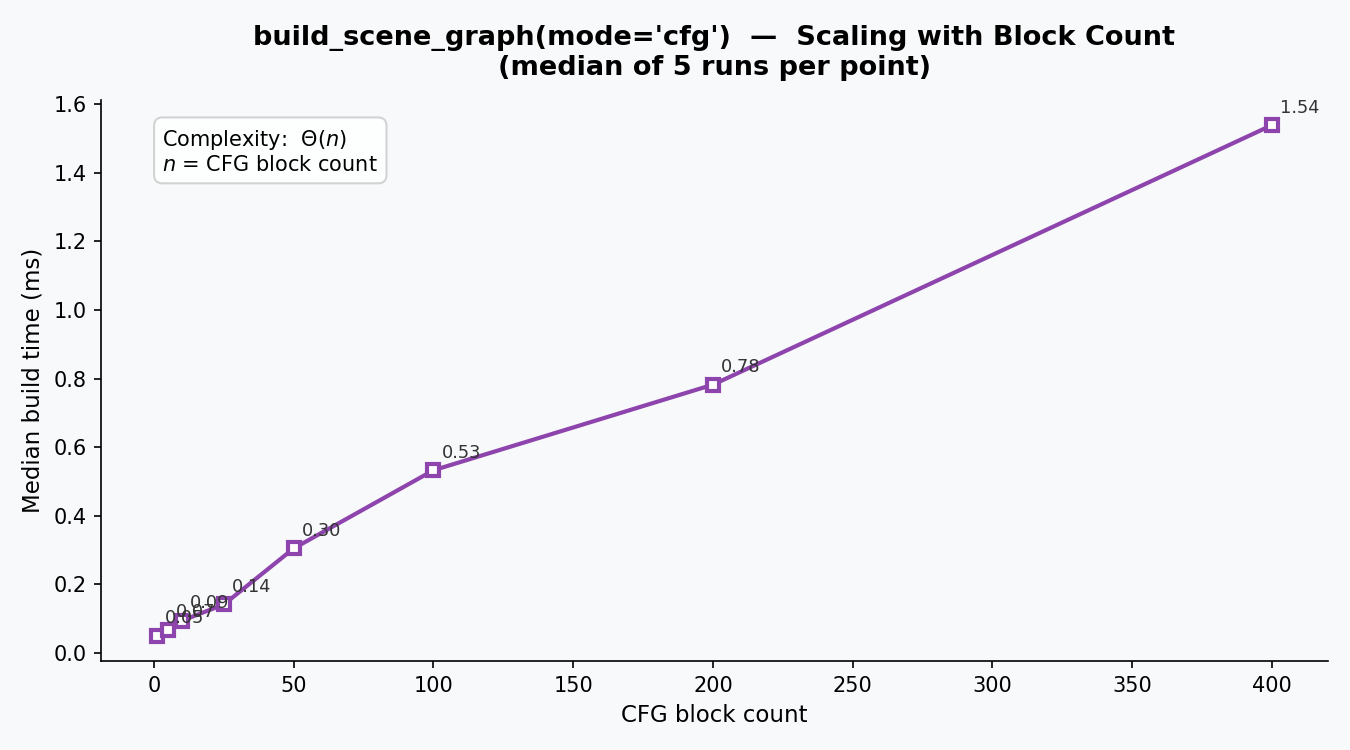
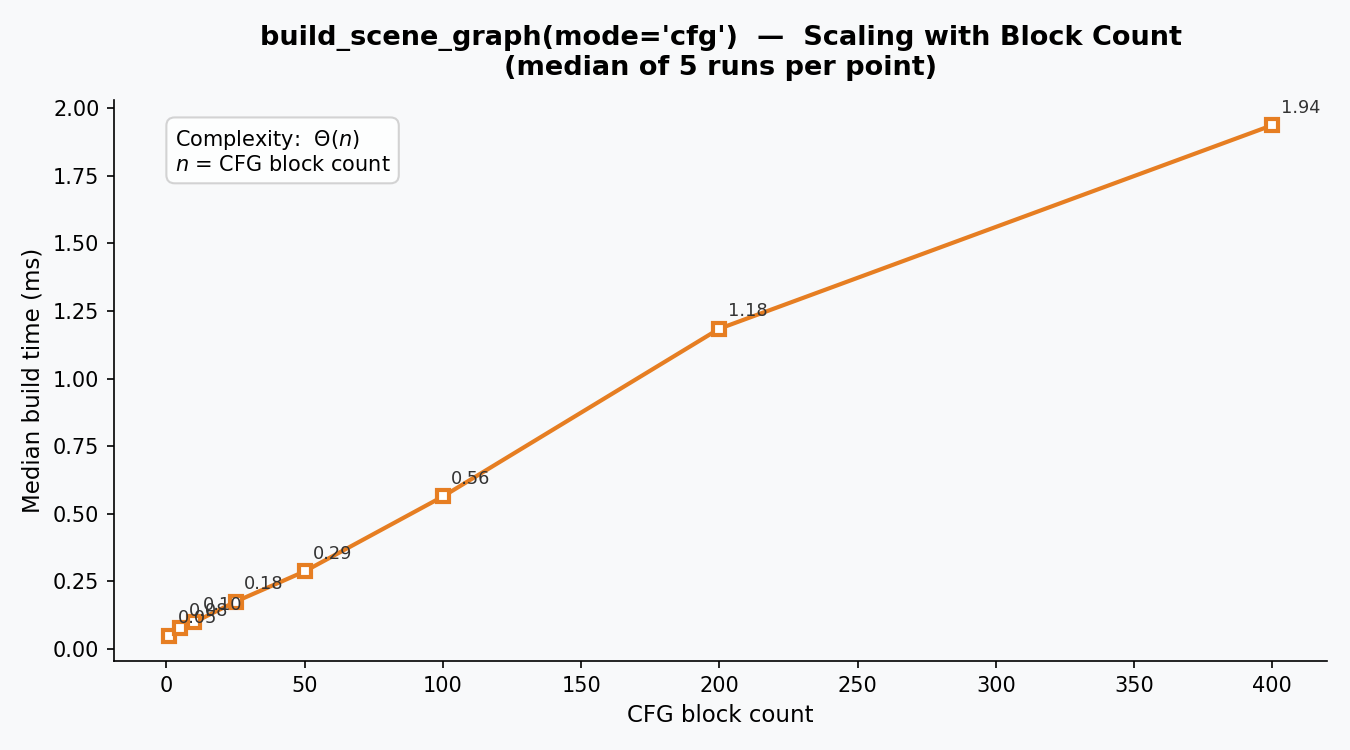
Updated images, fixed tests failing from tools.shutil->tools.ffmpeg switch

diff --git a/tests/cli/test_main.py b/tests/cli/test_main.py
@@ -75,7 +75,9 @@ def test_name_flag_overrides_output_basenames(tmp_path) -> None:
         }
     """)
     outdir = tmp_path / "out"
-    code = main(argv=[str(ll_file), "--json", "--draw", "--outdir", str(outdir), "--name", "myproject"])
+    code = main(
+        argv=[str(ll_file), "--json", "--draw", "--outdir", str(outdir), "--name", "myproject"]
+    )
     assert code == 0
     assert (outdir / "myproject_scene_graph.json").exists()
     assert (outdir / "cfg_myproject.dot").exists()
@@ -183,8 +185,10 @@ def test_main_animate_sets_manim_media_dir(tmp_path) -> None:
         }
     """)
     outdir = tmp_path / "out"
-    with patch("llvmanim.cli.main.StackRenderer"), \
-         patch("llvmanim.cli.main.manim_config") as mock_cfg:
+    with (
+        patch("llvmanim.cli.main.StackRenderer"),
+        patch("llvmanim.cli.main.manim_config") as mock_cfg,
+    ):
         main(argv=[str(ll_file), "--animate", "--outdir", str(outdir)])
     assert mock_cfg.media_dir == str(outdir)
 
@@ -295,9 +299,11 @@ def test_main_gif_renders_manim_as_mp4(tmp_path) -> None:
             ret i32 0
         }
     """)
-    with patch("llvmanim.cli.main.StackRenderer"), \
-         patch("llvmanim.cli.main.manim_config") as mock_cfg, \
-         patch("llvmanim.cli.main._find_latest_file", return_value=None):
+    with (
+        patch("llvmanim.cli.main.StackRenderer"),
+        patch("llvmanim.cli.main.manim_config") as mock_cfg,
+        patch("llvmanim.cli.main._find_latest_file", return_value=None),
+    ):
         code = main(argv=[str(ll_file), "--animate", "--format", "gif"])
 
     assert code == 0
@@ -317,10 +323,23 @@ def test_main_gif_calls_conversion_when_mp4_found(tmp_path) -> None:
     """)
     fake_mp4 = tmp_path / "media" / "videos" / "scene.mp4"
 
-    with patch("llvmanim.cli.main.StackRenderer"), \
-         patch("llvmanim.cli.main._find_latest_file", return_value=fake_mp4), \
-         patch("llvmanim.cli.main._convert_mp4_to_gif", return_value=True) as mock_convert:
-        code = main(argv=[str(ll_file), "--animate", "--format", "gif", "--gif-fps", "10", "--gif-width", "720"])
+    with (
+        patch("llvmanim.cli.main.StackRenderer"),
+        patch("llvmanim.cli.main._find_latest_file", return_value=fake_mp4),
+        patch("llvmanim.cli.main._convert_mp4_to_gif", return_value=True) as mock_convert,
+    ):
+        code = main(
+            argv=[
+                str(ll_file),
+                "--animate",
+                "--format",
+                "gif",
+                "--gif-fps",
+                "10",
+                "--gif-width",
+                "720",
+            ]
+        )
 
     assert code == 0
     mock_convert.assert_called_once_with(
@@ -439,7 +458,7 @@ def test_convert_mp4_to_gif_returns_false_without_ffmpeg(tmp_path, capsys) -> No
 
     from llvmanim.cli.main import _convert_mp4_to_gif
 
-    with patch("llvmanim.cli.main.shutil.which", return_value=None):
+    with patch("llvmanim.util.tools.ffmpeg", return_value=None):
         ok = _convert_mp4_to_gif(
             tmp_path / "in.mp4",
             tmp_path / "out.gif",
@@ -457,8 +476,13 @@ def test_convert_mp4_to_gif_returns_false_on_ffmpeg_error(tmp_path, capsys) -> N
 
     from llvmanim.cli.main import _convert_mp4_to_gif
 
-    with patch("llvmanim.cli.main.shutil.which", return_value="/usr/bin/ffmpeg"), \
-         patch("llvmanim.cli.main.subprocess.run", side_effect=subprocess.CalledProcessError(2, ["ffmpeg"])):
+    with (
+        patch("llvmanim.util.tools.ffmpeg", return_value="/usr/bin/ffmpeg"),
+        patch(
+            "llvmanim.cli.main.subprocess.run",
+            side_effect=subprocess.CalledProcessError(2, ["ffmpeg"]),
+        ),
+    ):
         ok = _convert_mp4_to_gif(
             tmp_path / "in.mp4",
             tmp_path / "out.gif",
@@ -476,8 +500,10 @@ def test_convert_mp4_to_gif_returns_true_when_commands_succeed(tmp_path) -> None
 
     from llvmanim.cli.main import _convert_mp4_to_gif
 
-    with patch("llvmanim.cli.main.shutil.which", return_value="/usr/bin/ffmpeg"), \
-         patch("llvmanim.cli.main.subprocess.run") as mock_run:
+    with (
+        patch("llvmanim.util.tools.ffmpeg", return_value="/usr/bin/ffmpeg"),
+        patch("llvmanim.cli.main.subprocess.run") as mock_run,
+    ):
         ok = _convert_mp4_to_gif(
             tmp_path / "in.mp4",
             tmp_path / "out.gif",
@@ -547,7 +573,16 @@ def test_import_analysis_metadata_applies_to_graph(tmp_path, capsys) -> None:
     meta_path = tmp_path / "meta.json"
     meta_path.write_text(json.dumps(meta))
 
-    code = main(argv=[str(ll_file), "--json", "--outdir", str(tmp_path), "--import-analysis-metadata", str(meta_path)])
+    code = main(
+        argv=[
+            str(ll_file),
+            "--json",
+            "--outdir",
+            str(tmp_path),
+            "--import-analysis-metadata",
+            str(meta_path),
+        ]
+    )
     assert code == 0
 
     scene = json.loads((tmp_path / "test_scene_graph.json").read_text())
@@ -633,7 +668,9 @@ def test_import_trace_populates_overlay(tmp_path, capsys) -> None:
     _write_trace_json(trace_file)
 
     outdir = tmp_path / "out"
-    code = main(argv=[str(ll_file), "--import-trace", str(trace_file), "--draw", "--outdir", str(outdir)])
+    code = main(
+        argv=[str(ll_file), "--import-trace", str(trace_file), "--draw", "--outdir", str(outdir)]
+    )
     assert code == 0
 
     # DOT output should contain overlay styling
@@ -649,11 +686,15 @@ def test_export_trace_writes_file(tmp_path, capsys) -> None:
     _write_trace_json(trace_in)
     trace_out = tmp_path / "trace_out.json"
 
-    code = main(argv=[
-        str(ll_file),
-        "--import-trace", str(trace_in),
-        "--export-trace", str(trace_out),
-    ])
+    code = main(
+        argv=[
+            str(ll_file),
+            "--import-trace",
+            str(trace_in),
+            "--export-trace",
+            str(trace_out),
+        ]
+    )
     assert code == 0
     assert trace_out.exists()
 
@@ -710,9 +751,15 @@ def test_cfg_animate_auto_derives_trace(tmp_path, capsys) -> None:
     dot_file.write_text("digraph { a -> b }")
     # --yes skips the prompt; the DOT will fail at layout parse, but the
     # auto-derive message should appear in stdout first.
-    main(argv=[
-        str(ll_file), "--cfg-animate", "--dot-cfg", str(dot_file), "--yes",
-    ])
+    main(
+        argv=[
+            str(ll_file),
+            "--cfg-animate",
+            "--dot-cfg",
+            str(dot_file),
+            "--yes",
+        ]
+    )
     out = capsys.readouterr().out
     assert "Deriving a static trace for @main" in out
 
@@ -723,11 +770,16 @@ def test_cfg_animate_dot_file_not_found(tmp_path, capsys) -> None:
     ll_file.write_text(_LOOP_IR)
     trace_file = tmp_path / "trace.json"
     _write_trace_json(trace_file)
-    code = main(argv=[
-        str(ll_file), "--cfg-animate",
-        "--dot-cfg", str(tmp_path / "nope.dot"),
-        "--import-trace", str(trace_file),
-    ])
+    code = main(
+        argv=[
+            str(ll_file),
+            "--cfg-animate",
+            "--dot-cfg",
+            str(tmp_path / "nope.dot"),
+            "--import-trace",
+            str(trace_file),
+        ]
+    )
     assert code == 1
     assert "not found" in capsys.readouterr().out.lower()
 
@@ -746,11 +798,16 @@ def test_cfg_animate_dot_layout_error(tmp_path, capsys) -> None:
     _write_trace_json(trace_file)
 
     with patch("llvmanim.cli.main.compute_dot_layout", side_effect=DotLayoutError("test error")):
-        code = main(argv=[
-            str(ll_file), "--cfg-animate",
-            "--dot-cfg", str(dot_file),
-            "--import-trace", str(trace_file),
-        ])
+        code = main(
+            argv=[
+                str(ll_file),
+                "--cfg-animate",
+                "--dot-cfg",
+                str(dot_file),
+                "--import-trace",
+                str(trace_file),
+            ]
+        )
     assert code == 1
     assert "test error" in capsys.readouterr().out
 
@@ -778,15 +835,23 @@ def test_cfg_animate_renders_scene(tmp_path, capsys) -> None:
         bounding_box=(0, 0, 200, 300),
     )
 
-    with patch("llvmanim.cli.main.compute_dot_layout", return_value=mock_layout), \
-         patch("llvmanim.cli.main.CFGRenderer") as mock_scene_cls:
+    with (
+        patch("llvmanim.cli.main.compute_dot_layout", return_value=mock_layout),
+        patch("llvmanim.cli.main.CFGRenderer") as mock_scene_cls,
+    ):
         mock_instance = mock_scene_cls.return_value
-        code = main(argv=[
-            str(ll_file), "--cfg-animate",
-            "--dot-cfg", str(dot_file),
-            "--import-trace", str(trace_file),
-            "--outdir", str(tmp_path / "out"),
-        ])
+        code = main(
+            argv=[
+                str(ll_file),
+                "--cfg-animate",
+                "--dot-cfg",
+                str(dot_file),
+                "--import-trace",
+                str(trace_file),
+                "--outdir",
+                str(tmp_path / "out"),
+            ]
+        )
     assert code == 0
     mock_scene_cls.assert_called_once()
     mock_instance.render.assert_called_once()

diff --git a/docs/metrics/generate_perf_metrics.py b/docs/metrics/generate_perf_metrics.py
@@ -24,10 +24,10 @@ OUT = Path(__file__).parent
 BG = "#f8f9fa"
 
 # ── Colour palette ─────────────────────────────────────────────────────────────
-C_INGEST = "#2980b9"
-C_TRANSFORM = "#8e44ad"
-C_TRACE = "#e67e22"
-C_STACK = "#27ae60"
+C_INGEST = "#27AE60"
+C_TRANSFORM = "#E67E22"
+C_TRACE = "#E67E22"       # derive_cfg_trace is also in the transform layer
+C_STACK = "#CA6F1E"       # darker transform amber — pairs with C_TRANSFORM on the memory chart
 C_MEMORY = "#c0392b"
 
 REPEATS = 5  # median over N runs
@@ -337,8 +337,10 @@ def chart_trace_scaling() -> None:
     ax.text(
         0.05,
         0.95,
-        r"Complexity:  $\Theta(n)$  (linear chain CFG)" "\n"
-        r"$O(n \cdot k)$ in general,  $k$ = loop-iteration bound" "\n"
+        r"Complexity:  $\Theta(n)$  (linear chain CFG)"
+        "\n"
+        r"$O(n \cdot k)$ in general,  $k$ = loop-iteration bound"
+        "\n"
         r"$n$ = CFG block count",
         transform=ax.transAxes,
         fontsize=10,
@@ -408,8 +410,10 @@ def chart_scene_graph_stack_scaling() -> None:
     ax.text(
         0.05,
         0.95,
-        r"Complexity:  $O(d)$  worst case" "\n"
-        r"$o(d)$  empirically (sub-linear growth observed)" "\n"
+        r"Complexity:  $O(d)$  worst case"
+        "\n"
+        r"$o(d)$  empirically (sub-linear growth observed)"
+        "\n"
         r"$d$ = call-tree depth",
         transform=ax.transAxes,
         fontsize=10,
@@ -571,9 +575,12 @@ def chart_pipeline_stage_times() -> None:
         0.97,
         0.95,
         "Complexity Legend\n"
-        r"parse:          $\Theta(n_i)$,  $n_i$ = instr. count" "\n"
-        r"cfg build:     $\Theta(n_b)$,  $n_b$ = block count" "\n"
-        r"trace:           $\Theta(n_b)$" "\n"
+        r"parse:          $\Theta(n_i)$,  $n_i$ = instr. count"
+        "\n"
+        r"cfg build:     $\Theta(n_b)$,  $n_b$ = block count"
+        "\n"
+        r"trace:           $\Theta(n_b)$"
+        "\n"
         r"stack build:  $O(d)$,  $d$ = call depth",
         transform=ax.transAxes,
         fontsize=9,

diff --git a/docs/metrics/generate_metrics.py b/docs/metrics/generate_metrics.py
@@ -18,10 +18,10 @@ OUT = Path(__file__).parent
 
 # ── Palette ────────────────────────────────────────────────────────────────────
 LAYER_COLORS = {
-    "cli": "#e67e22",
-    "ingest": "#2980b9",
-    "transform": "#8e44ad",
-    "render": "#27ae60",
+    "cli": "#C0397E",
+    "ingest": "#27AE60",
+    "transform": "#E67E22",
+    "render": "#2980B9",
 }
 COVERAGE_COLORS = {
     "high": "#27ae60",  # >= 95 %

diff --git a/src/llvmanim/cli/main.py b/src/llvmanim/cli/main.py
@@ -3,7 +3,6 @@
 from __future__ import annotations
 
 import argparse
-import shutil
 import subprocess
 from pathlib import Path
 
